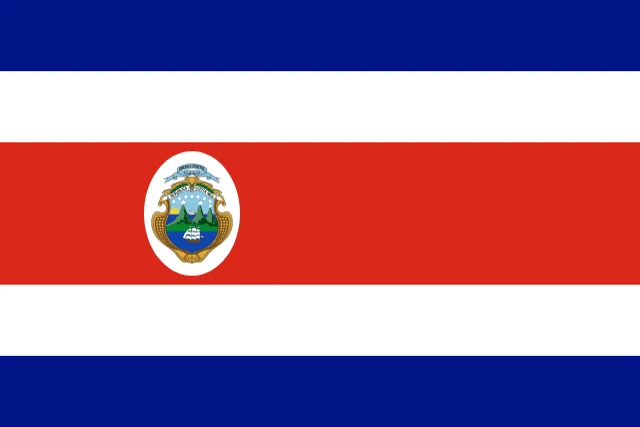
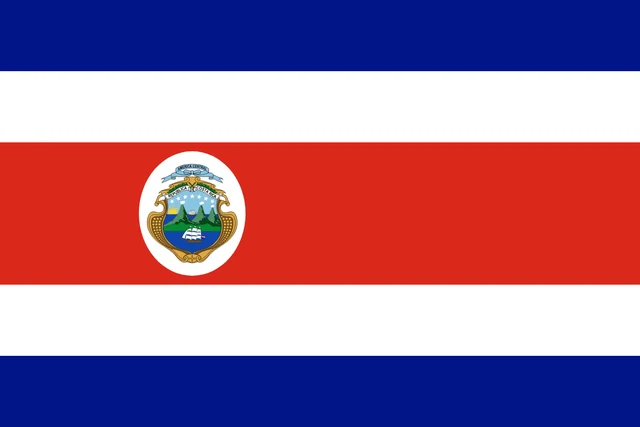
Reshape similar flags without stretching emblems

Changed region(s): [[0.2188, 0.3653, 0.4062, 0.6393]]

diff --git a/app/src/main/java/com/example/myapp/flashcards/Repository.kt b/app/src/main/java/com/example/myapp/flashcards/Repository.kt
@@ -244,7 +244,23 @@ class FlashcardRepository(private val context: Context) {
             4 to "flag-cr",
             4 to "flag-lt",
             4 to "flag-bo",
-            4 to "flag-ga"
+            4 to "flag-ga",
+            5 to "flag-ie",
+            5 to "flag-md",
+            5 to "flag-ad",
+            5 to "flag-lu",
+            5 to "flag-si",
+            5 to "flag-qa",
+            5 to "flag-bh",
+            5 to "flag-lv",
+            5 to "flag-hn",
+            5 to "flag-sv",
+            5 to "flag-ni",
+            5 to "flag-cu",
+            5 to "flag-cr",
+            5 to "flag-lt",
+            5 to "flag-bo",
+            5 to "flag-ga"
         )
         private const val SIX_MONTHS_MINUTES = 6 * 30 * 24 * 60
         private val builtinListIds = listOf(

diff --git a/src/generate_flags.py b/src/generate_flags.py
@@ -1,6 +1,7 @@
 import hashlib
 import io
 import json
+import math
 import urllib.request
 from pathlib import Path
 
@@ -38,7 +39,7 @@ NAME_BOXES = {
     "yt": [((145, 32, 495, 102), "white")],
     "gu": [((283, 159, 314, 178), "#94dbfc"), ((323, 159, 358, 178), "#94dbfc")],
 }
-# Look-alikes whose official proportions would give the answer away, all stretched to 3:2 so only
+# Look-alikes whose official proportions would give the answer away, all brought to 3:2 so only
 # their colors and emblems tell them apart. Indonesia and Monaco keep theirs: it is their only
 # difference.
 SAME_SHAPE = {
@@ -96,8 +97,81 @@ def hide_name(image, code):
     return image
 
 
-def reshape(image, code):
-    return image.resize((640, 427)) if code in SAME_SHAPE else image
+def plain_lines(image, axis):
+    """Indices of the columns (axis 0) or rows (axis 1) identical to the one before: plain stripe."""
+    count = image.width if axis == 0 else image.height
+    span = image.height if axis == 0 else image.width
+
+    def line(i):
+        box = (i, 0, i + 1, span) if axis == 0 else (0, i, span, i + 1)
+        return image.crop(box).tobytes()
+
+    previous = line(0)
+    plain = []
+    for i in range(1, count):
+        current = line(i)
+        if current == previous:
+            plain.append(i)
+        previous = current
+    return plain
+
+
+def lines_to_keep(count, plain, target):
+    """Which of [count] lines to keep so that [target] remain, dropping only [plain] ones.
+
+    Kept so that every line lands as close as possible to where a plain stretch would put it: the
+    stripes keep their proportions, and the room an emblem cannot give up is shared on both sides.
+    Searches the smallest tolerance a valid choice exists for, then walks back through it.
+    """
+    scale = target / count
+
+    def reachable(tolerance):
+        bounds = [(0, 0)]
+        for x in range(count):
+            low, high = bounds[-1]
+            low += 0 if x in plain else 1
+            high += 1
+            ideal = scale * (x + 1)
+            low, high = max(low, math.ceil(ideal - tolerance)), min(high, math.floor(ideal + tolerance))
+            if low > high:
+                return None
+            bounds.append((low, high))
+        return bounds if bounds[-1][0] <= target <= bounds[-1][1] else None
+
+    low, high = 0.0, float(count)
+    while high - low > 0.25:
+        middle = (low + high) / 2
+        low, high = (low, middle) if reachable(middle) else (middle, high)
+    bounds = reachable(high)
+    kept, current = [], target
+    for x in range(count - 1, -1, -1):
+        before_low, before_high = bounds[x]
+        can_drop = x in plain and before_low <= current <= before_high
+        can_keep = before_low <= current - 1 <= before_high
+        if can_drop and (not can_keep or abs(current - scale * x) <= abs(current - 1 - scale * x)):
+            continue
+        kept.append(x)
+        current -= 1
+    return kept[::-1]
+
+
+def reshape(image):
+    """Brings a flag to 3:2 by dropping plain stripe columns or rows, so its emblem keeps its shape.
+
+    When the stripes run out first, the flag stays as close to 3:2 as they allow.
+    """
+    axis = 0 if image.width > image.height * 3 / 2 else 1
+    count = image.width if axis == 0 else image.height
+    plain = set(plain_lines(image, axis))
+    target = round(image.height * 3 / 2) if axis == 0 else round(image.width * 2 / 3)
+    kept = lines_to_keep(count, plain, max(target, count - len(plain)))
+    out = Image.new(image.mode, (len(kept), image.height) if axis == 0 else (image.width, len(kept)))
+    for j, i in enumerate(kept):
+        if axis == 0:
+            out.paste(image.crop((i, 0, i + 1, image.height)), (j, 0))
+        else:
+            out.paste(image.crop((0, i, image.width, i + 1)), (0, j))
+    return out.resize((640, round(640 * out.height / out.width)), Image.LANCZOS)
 
 
 def fetch(url):
@@ -122,7 +196,12 @@ def main():
             print(f"{i}/{len(codes)} {code} skipped, same flag as {seen[digest]}", flush=True)
             continue
         seen[digest] = code
-        reshape(hide_name(image, code), code).save(FLAGS_DIR / f"{code}.webp", "WEBP", quality=88, method=6)
+        if code in SAME_SHAPE:
+            # From the bigger render: dropping stripes then scaling back down keeps the emblem sharp.
+            image = reshape(
+                Image.open(io.BytesIO(fetch(f"https://flagcdn.com/w1280/{code}.png"))).convert("RGBA")
+            )
+        hide_name(image, code).save(FLAGS_DIR / f"{code}.webp", "WEBP", quality=88, method=6)
         cards.append(card(code, name))
         print(f"{i}/{len(codes)} {code} {name}", flush=True)
     for code, (url, name) in EXTRA_FLAGS.items():
